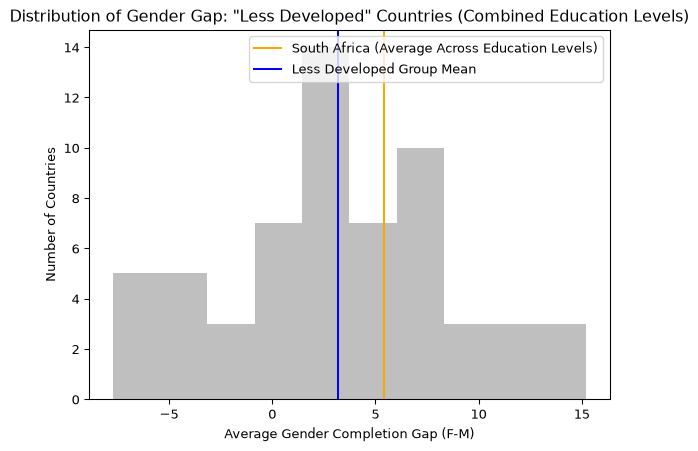
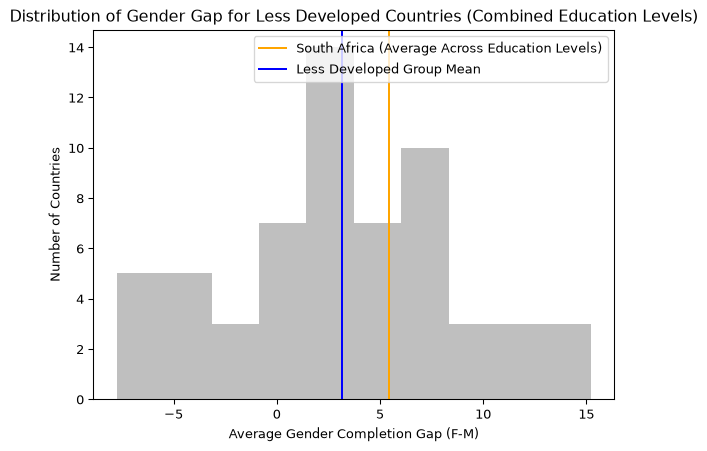
title change

diff --git a/readme.md b/readme.md
@@ -822,7 +822,7 @@ plt.axvline(combined_gap.mean(), color = 'blue', label = 'Less Developed Group M
 
 plt.xlabel('Average Gender Completion Gap (F-M)')
 plt.ylabel('Number of Countries')
-plt.title('Distribution of Gender Gap: "Less Developed" Countries (Combined Education Levels)')
+plt.title('Distribution of Gender Gap for Less Developed Countries (Combined Education Levels)')
 plt.legend()
 
 plt.show()
